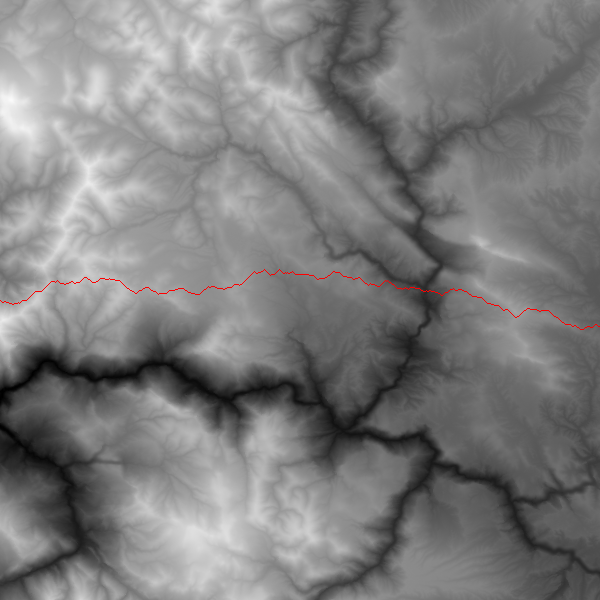
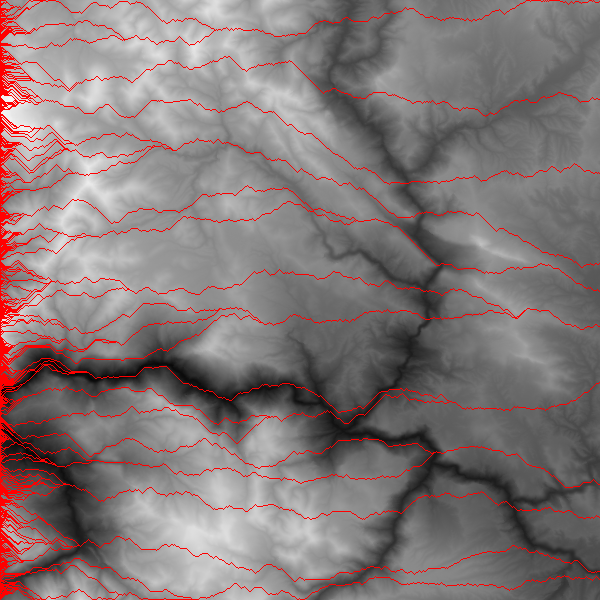
done with advanced except for green path

diff --git a/pathfinder.py b/pathfinder.py
@@ -3,7 +3,7 @@ from PIL import ImageColor
 import numpy as np
 import random
 
-
+list_of_paths = []
 class TopoMap:
     # file_name is name of text file with elevation data
     def __init__(self, name_txt):
@@ -47,9 +47,17 @@ class TopoMap:
         self.path.append((col, row))
 
         while col < len(self.data[row])-1:
-            right_up = self.data[row-1][col+1]
-            right_down = self.data[row+1][col+1]
             right = self.data[row][col+1]
+
+            if row-1 < 0:
+                right_up = right
+            else:
+                right_up = self.data[row-1][col+1]
+
+            if row+1 >= len(self.data):
+                right_down = right
+            else:
+                right_down = self.data[row+1][col+1]
 
             diffs = [abs(current-right), abs(current-right_down), abs(current-right_up)]
             min_diff = min(diffs)
@@ -71,25 +79,27 @@ class TopoMap:
 
             col += 1
             self.path.append((col, row))
+        list_of_paths.append(self.path)
 
     def chart_greedy_path(self):
-        # self.test_answer = [(0,6), (1,5), (2,4), (3,3), (4,2), (5,3), (6,2), (7,2), (8,3), (9,4), (10,5), (11,5), (12,5), (13,6)]
-        for i in range(len(self.path)):
-            self.image.putpixel(self.path[i], ImageColor.getcolor('red', 'RGBA'))
+        for i in range(len(list_of_paths)):
+            for j in range(len(list_of_paths[i])):
+                self.image.putpixel(list_of_paths[i][j], ImageColor.getcolor('red', 'RGBA'))
         self.image.save(self.name_png)
 
 
 elevation_small = TopoMap('elevation_small.txt')
 elevation_small.txt_to_png()
-'''
-list_of_paths = []
+
 for i in range(len(elevation_small.data)):
-    list_of_paths.append(elevation_small.find_greedy_path(i))
-for i in range(len(list_of_paths)):
-    elevation_small.chart_greedy_path(i)
+    elevation_small.find_greedy_path(i)
+
+elevation_small.chart_greedy_path()
+
 '''
 elevation_small.find_greedy_path(300)
 elevation_small.chart_greedy_path()
+'''
 
 '''
 elevation_test = TopoMap('elevation_test.txt')
